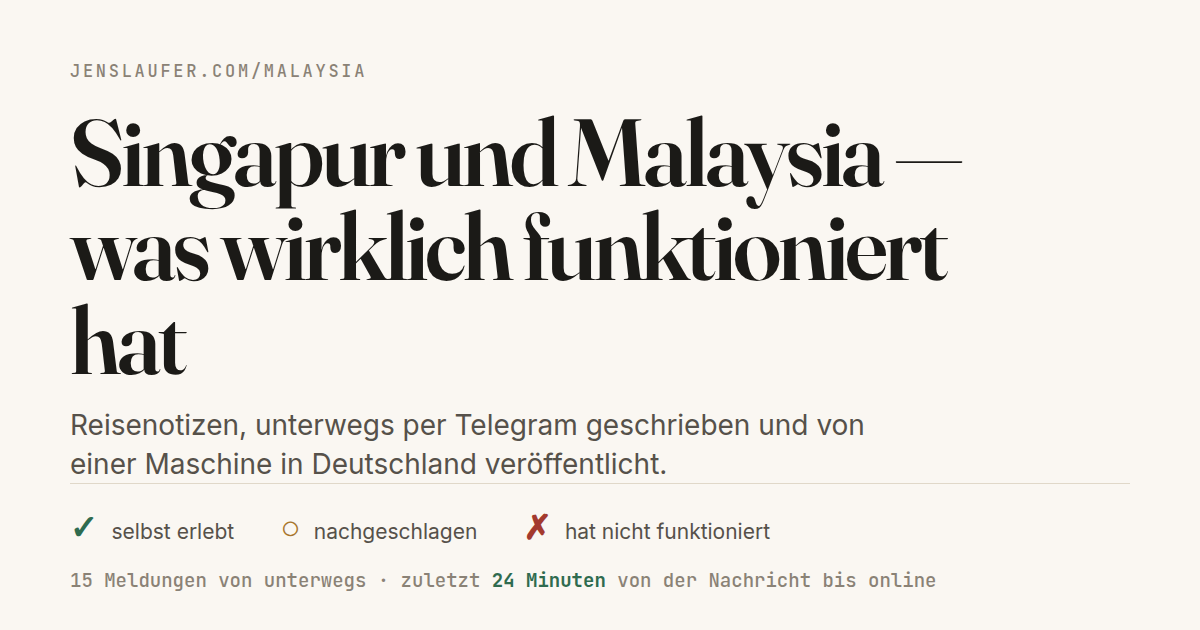
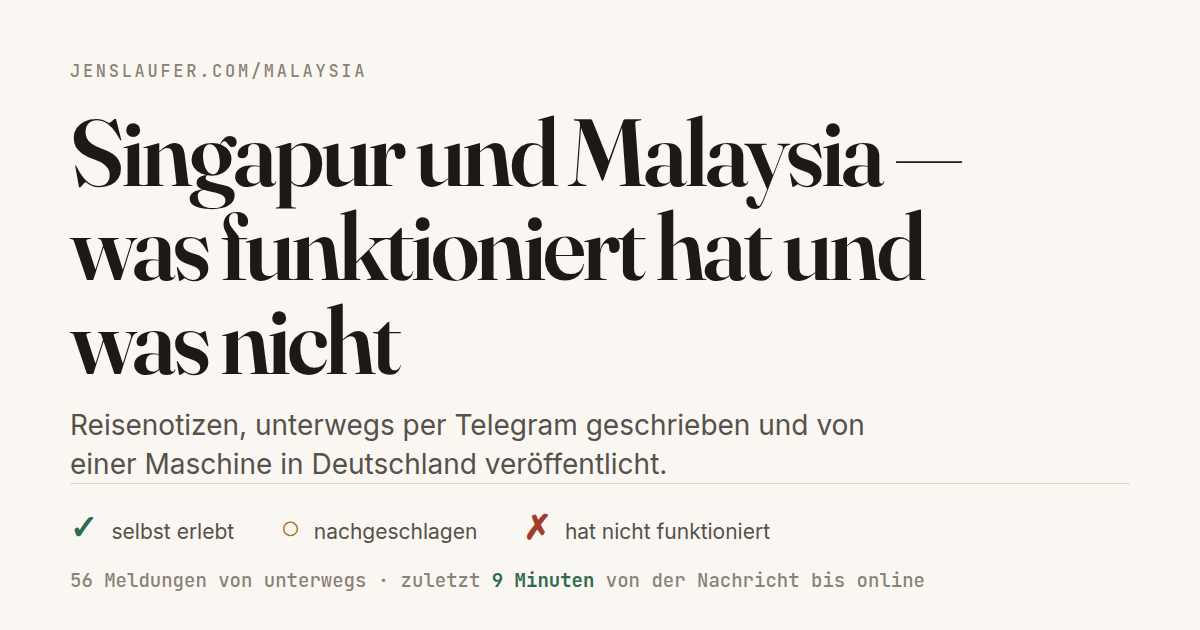
Titel: eine Quelle statt zehn Kopien, und die Ueberschrift nennt jetzt auch die Fehlschlaege
Jens 22.08. 12:42: 'Wir brauchen eine bessere Headline.'

Neu: 'Singapur und Malaysia — was funktioniert hat und was nicht'
(en: 'Singapore and Malaysia — what worked and what didn't').
Die alte Fassung versprach nur die Treffer, waehrend der Block
'Was nicht funktioniert hat' ungedeckelt oben auf der Seite steht.

Beim Aendern kam heraus, dass der Titel zehnmal im Repo stand: je
Sprache im Quelldokument, im <title>, im og:title, auf der
Vorschaukarte und im Feed. Neun Kopien, die niemand mitzieht.
seiten_titel() liest jetzt die erste Ueberschrift der Quelle, alle
Flaechen fuellen einen Platzhalter. 9 Tests, 8 davon vorher rot.

Nebenbefund: die Feed-Schleife hing in der Schleife ueber die
Rechtsseiten und lief viermal statt zweimal.

diff --git a/index.html b/index.html
@@ -3,13 +3,13 @@
 <head>
 <meta charset="utf-8">
 <meta name="viewport" content="width=device-width, initial-scale=1">
-<title>Singapur und Malaysia — was wirklich funktioniert hat</title>
+<title>Singapur und Malaysia — was funktioniert hat und was nicht</title>
 <meta name="description" content="Reisenotizen aus Singapur und Malaysia, August 2026. Jeder Punkt sagt dazu, ob wir es selbst erlebt oder nur nachgeschlagen haben.">
 <meta name="robots" content="index, follow">
 <meta property="og:type" content="article">
 <meta property="og:locale" content="de_DE">
 <meta property="og:locale:alternate" content="en_GB">
-<meta property="og:title" content="Singapur und Malaysia — was wirklich funktioniert hat">
+<meta property="og:title" content="Singapur und Malaysia — was funktioniert hat und was nicht">
 <meta property="og:description" content="Reisenotizen mit einem Zeichen an jedem Punkt: selbst erlebt, nachgeschlagen oder gescheitert. Unterwegs per Telegram geschrieben, von einer Maschine in Deutschland veröffentlicht.">
 <meta property="og:url" content="https://jenslaufer.com/malaysia/">
 <meta property="og:image" content="https://jenslaufer.com/malaysia/og.png">
@@ -780,7 +780,7 @@ a { color: var(--erlebt); }
 
 <header class="kopf">
   <p class="kicker">Reisenotizen · August und September 2026</p>
-  <h1>Singapur und Malaysia — was wirklich funktioniert hat</h1>
+  <h1>Singapur und Malaysia — was funktioniert hat und was nicht</h1>
 <p>Am Montag kurz nach zwölf standen wir zu viert auf der malaysischen Seite der Grenze,
 mit dem Gepäck für drei Wochen, und suchten den Weg zur Busstation Larkin. Fünf Kilometer,
 mit Koffern, in einem Land, dessen Bargeld wir uns erst dort besorgen wollten. Geraten wird

diff --git a/en/index.html b/en/index.html
@@ -3,13 +3,13 @@
 <head>
 <meta charset="utf-8">
 <meta name="viewport" content="width=device-width, initial-scale=1">
-<title>Singapore and Malaysia — what actually worked</title>
+<title>Singapore and Malaysia — what worked and what didn’t</title>
 <meta name="description" content="Travel notes from Singapore and Malaysia, August 2026. Every point says whether we lived through it ourselves or only looked it up.">
 <meta name="robots" content="index, follow">
 <meta property="og:type" content="article">
 <meta property="og:locale" content="en_GB">
 <meta property="og:locale:alternate" content="de_DE">
-<meta property="og:title" content="Singapore and Malaysia — what actually worked">
+<meta property="og:title" content="Singapore and Malaysia — what worked and what didn’t">
 <meta property="og:description" content="Travel notes with a mark on every point: lived through, looked up, or failed. Written on the road by Telegram, published by a machine in Germany.">
 <meta property="og:url" content="https://jenslaufer.com/malaysia/en/">
 <meta property="og:image" content="https://jenslaufer.com/malaysia/en/og.png">
@@ -779,7 +779,7 @@ a { color: var(--erlebt); }
 
 <header class="kopf">
   <p class="kicker">Travel notes · August and September 2026</p>
-  <h1>Singapore and Malaysia — what actually worked</h1>
+  <h1>Singapore and Malaysia — what worked and what didn’t</h1>
 <p>On Monday, just after noon, the four of us stood on the Malaysian side of the border with
 three weeks of luggage, looking for the way to Larkin bus station. Five kilometres, with
 suitcases, in a country whose cash we were planning to get once we were inside it. What

diff --git a/template/page.html b/template/page.html
@@ -3,13 +3,13 @@
 <head>
 <meta charset="utf-8">
 <meta name="viewport" content="width=device-width, initial-scale=1">
-<title>Singapur und Malaysia — was wirklich funktioniert hat</title>
+<title>{{SEITENTITEL}}</title>
 <meta name="description" content="Reisenotizen aus Singapur und Malaysia, August 2026. Jeder Punkt sagt dazu, ob wir es selbst erlebt oder nur nachgeschlagen haben.">
 <meta name="robots" content="index, follow">
 <meta property="og:type" content="article">
 <meta property="og:locale" content="de_DE">
 <meta property="og:locale:alternate" content="en_GB">
-<meta property="og:title" content="Singapur und Malaysia — was wirklich funktioniert hat">
+<meta property="og:title" content="{{SEITENTITEL}}">
 <meta property="og:description" content="Reisenotizen mit einem Zeichen an jedem Punkt: selbst erlebt, nachgeschlagen oder gescheitert. Unterwegs per Telegram geschrieben, von einer Maschine in Deutschland veröffentlicht.">
 <meta property="og:url" content="{{BASIS}}">
 <meta property="og:image" content="{{BASIS}}og.png">

diff --git a/template/page.en.html b/template/page.en.html
@@ -3,13 +3,13 @@
 <head>
 <meta charset="utf-8">
 <meta name="viewport" content="width=device-width, initial-scale=1">
-<title>Singapore and Malaysia — what actually worked</title>
+<title>{{SEITENTITEL}}</title>
 <meta name="description" content="Travel notes from Singapore and Malaysia, August 2026. Every point says whether we lived through it ourselves or only looked it up.">
 <meta name="robots" content="index, follow">
 <meta property="og:type" content="article">
 <meta property="og:locale" content="en_GB">
 <meta property="og:locale:alternate" content="de_DE">
-<meta property="og:title" content="Singapore and Malaysia — what actually worked">
+<meta property="og:title" content="{{SEITENTITEL}}">
 <meta property="og:description" content="Travel notes with a mark on every point: lived through, looked up, or failed. Written on the road by Telegram, published by a machine in Germany.">
 <meta property="og:url" content="{{BASIS}}en/">
 <meta property="og:image" content="{{BASIS}}en/og.png">

diff --git a/template/og.html b/template/og.html
@@ -44,7 +44,7 @@
 <body>
   <div>
     <p class="kicker">{{ADRESSE}}</p>
-    <h1>Singapur und Malaysia — was wirklich funktioniert hat</h1>
+    <h1>{{SEITENTITEL}}</h1>
     <p class="sub">{{UNTERZEILE}}</p>
   </div>
   <div>

diff --git a/build.py b/build.py
@@ -979,7 +979,7 @@ def _fehlschlaege(rumpf: str) -> str:
 def falte_recherche(rumpf: str, ab: int = 2) -> str:
     """Zusammenhaengende `○`-Eintraege in einen aufklappbaren Kasten.
 
-    Die Seite verspricht "was wirklich funktioniert hat" und bestand am
+    Die Seite verspricht "was funktioniert hat und was nicht" und bestand am
     18.08. aus 37 nachgeschlagenen gegen 28 erlebten Eintraegen — die
     Recherche trug die Seite, nicht das Erlebte. Eingeklappt kehrt sich das
     um, ohne dass ein Satz verschwindet: der Text steht im `<details>` und
@@ -1363,7 +1363,7 @@ def _autor_block() -> str:
 """
 
 
-def _og_karte(summe: dict) -> str:
+def _og_karte(summe: dict, titel: str = None) -> str:
     """Die Vorschaukarte als HTML. Ohne Messung ohne Zahl — nie mit einer Null."""
     karte = (WURZEL / "template" / "og.html").read_text(encoding="utf-8")
     if summe.get("gemessen") and summe.get("juengste_minuten") is not None:
@@ -1376,15 +1376,20 @@ def _og_karte(summe: dict) -> str:
     else:
         fuss = _t("Geschrieben unterwegs, gebaut in Deutschland",
                   "Written on the road, built in Germany")
+    # Der Titel kam hier bis zum 22.08. aus einer Suchen-und-Ersetzen-Zeile:
+    # die deutsche Vorlage trug ihn im Klartext, die englische Karte entstand
+    # daraus. Eine geaenderte Ueberschrift traf das Muster nicht mehr und die
+    # Karte blieb still auf dem alten Titel.
+    if titel is None:
+        titel = seiten_titel(KOPIEN[SPRACHE].read_text(encoding="utf-8"))
     if SPRACHE == "en":
-        karte = (karte.replace("Singapur und Malaysia", "Singapore and Malaysia")
-                      .replace("was wirklich funktioniert hat", "what actually worked")
-                      .replace('lang="de"', 'lang="en"'))
+        karte = karte.replace('lang="de"', 'lang="en"')
     # Die Adresse kommt aus BASIS, nicht aus der Vorlage. Sie stand dort als
     # malaysia.jenslaufer.com — eine Subdomain, die nie angelegt wurde. Im HTML
     # war ueberall die richtige Adresse, geteilt wird aber das Bild, und dort
     # findet sie kein grep. Wer sie abtippt, landet nirgends (17.08. gemessen).
     ersatz = {
+        "SEITENTITEL": _titel_fuer_html(titel),
         "ADRESSE": BASIS.split("://", 1)[1].rstrip("/"),
         "UNTERZEILE": _t(
             "Reisenotizen, unterwegs per Telegram geschrieben und von einer "
@@ -1401,7 +1406,7 @@ def _og_karte(summe: dict) -> str:
     return karte
 
 
-def baue_og_bild(summe: dict, ziel: Path = None) -> Path | None:
+def baue_og_bild(summe: dict, titel: str = None, ziel: Path = None) -> Path | None:
     """Rendert die Vorschaukarte (1200x630) mit Chromium.
 
     Ohne Bild ist der geteilte Link in Telegram, WhatsApp und LinkedIn eine graue
@@ -1409,7 +1414,7 @@ def baue_og_bild(summe: dict, ziel: Path = None) -> Path | None:
     """
     ziel = ziel or (WURZEL / ("og.png" if SPRACHE == "de" else "en/og.png"))
     ziel.parent.mkdir(parents=True, exist_ok=True)
-    karte = _og_karte(summe)
+    karte = _og_karte(summe, titel)
     pruefe_privat(karte)
 
     # Snap-Chromium darf weder nach /tmp noch in versteckte Ordner schreiben.
@@ -1451,6 +1456,38 @@ def _inhaltsverzeichnis(rumpf: str) -> str:
     return f'<nav class="toc" aria-label="{_t("Abschnitte", "Sections")}">{links}</nav>'
 
 
+H1 = re.compile(r"^#[ \t]+(.+?)[ \t]*$", flags=re.M)
+
+
+def _titel_fuer_html(titel: str) -> str:
+    """Sicher als Textknoten UND in einem Attribut mit doppelten Anfuehrungszeichen.
+
+    `html.escape(quote=True)` waere zu scharf: es macht aus dem Apostroph in
+    „what didn't" ein `&#x27;`, das im Browser-Reiter und in der WhatsApp-
+    Vorschau als solches dasteht. Gefaehrlich sind hier `&<>` und das doppelte
+    Anfuehrungszeichen, nicht der Apostroph.
+    """
+    return html.escape(titel, quote=False).replace('"', "&quot;")
+
+
+def seiten_titel(md: str) -> str:
+    """Der Seitentitel ist die erste Ueberschrift des Quelldokuments — nur die.
+
+    Bis zum 22.08. stand er zusaetzlich im `<title>`, im `og:title`, auf der
+    Vorschaukarte und im Feed, je Sprache: zehn Stellen fuer zwei Titel, neun
+    davon Kopien. Wer die Ueberschrift aendert, aendert dann die Seite und
+    laesst Browser-Reiter, WhatsApp-Vorschau und Feed auf dem alten Stand
+    stehen — sichtbar genau beim Weitergeben, dem einzigen Zweck der Seite.
+
+    Kein Ersatztitel bei fehlender Ueberschrift: eine Seite, die still
+    „Titel" heisst, faellt erst auf, wenn jemand den Link teilt.
+    """
+    treffer = H1.search(md)
+    if not treffer:
+        raise ValueError("Quelldokument ohne Ueberschrift erster Ordnung")
+    return treffer.group(1).strip()
+
+
 def baue_seite(md: str) -> str:
     pruefe_privat(strip_kommentare(md))
     rumpf = render_markdown(md)
@@ -1472,6 +1509,7 @@ def baue_seite(md: str) -> str:
         .replace("{{TOC}}", _inhaltsverzeichnis(rumpf))
         .replace("{{STAND}}", stand)
         .replace("{{BASIS}}", BASIS)
+        .replace("{{SEITENTITEL}}", _titel_fuer_html(seiten_titel(md)))
     )
     pruefe_privat(seite)
     pruefe_extern(seite)
@@ -1666,10 +1704,7 @@ def baue_feed(md: str) -> str | None:
     ET.register_namespace("", ATOM)
     feed = ET.Element(f"{{{ATOM}}}feed")
     feed.set("{http://www.w3.org/XML/1998/namespace}lang", SPRACHE)
-    ET.SubElement(feed, f"{{{ATOM}}}title").text = _t(
-        "Singapur und Malaysia — was wirklich funktioniert hat",
-        "Singapore and Malaysia — what actually worked",
-    )
+    ET.SubElement(feed, f"{{{ATOM}}}title").text = seiten_titel(md)
     ET.SubElement(feed, f"{{{ATOM}}}subtitle").text = _t(
         # Echte Umlaute: dieser Satz steht in jedem Leseprogramm sichtbar da.
         # Die ASCII-Schreibweise ist ein Reflex aus dem Quelltext und war am
@@ -1843,9 +1878,18 @@ def main() -> int:
         pfad.write_text(html, encoding="utf-8")
         print(f"gebaut: {pfad} ({pfad.stat().st_size:,} Bytes)")
 
-        # Der Feed wird NACH der Seite geschrieben und nur, wenn es etwas zu
-        # melden gibt. Ohne Messung bleibt die alte Datei stehen: ein leerer
-        # Feed sieht bei jedem Leser aus wie eine ruhige Woche.
+    # Der Feed wird NACH der Seite geschrieben und nur, wenn es etwas zu
+    # melden gibt. Ohne Messung bleibt die alte Datei stehen: ein leerer
+    # Feed sieht bei jedem Leser aus wie eine ruhige Woche.
+    #
+    # Eigene Schleife, seit dem 22.08.: der Block hing eine Ebene tiefer in
+    # der Schleife ueber die Rechtsseiten und lief deshalb viermal statt
+    # zweimal — sichtbar nur als doppelte Zeile in der Bauausgabe, weil
+    # zweimal dieselben Bytes geschrieben wurden. Der Preis waere erst beim
+    # naechsten Umbau faellig geworden: haengt der Feed an RECHTSARTEN, wird
+    # er gar nicht mehr geschrieben, sobald dort etwas anderes steht — und
+    # eine nicht geschriebene Datei bleibt als alte Datei erreichbar.
+    for sprache in SPRACHEN:
         SPRACHE = sprache
         xml = baue_feed(quellen[sprache])
         feed_datei = FEED_DATEIEN[sprache]

diff --git a/tests/test_build.py b/tests/test_build.py
@@ -1631,7 +1631,7 @@ class TestZuletzt(unittest.TestCase):
 class TestRechercheFaltung(unittest.TestCase):
     """Umbau 3 (Jens 2026-08-18 09:44).
 
-    37 ○ gegen 28 ✓: die Seite verspricht „was wirklich funktioniert hat" und
+    37 ○ gegen 28 ✓: die Seite verspricht „was funktioniert hat und was nicht" und
     besteht mehrheitlich aus Vorher-Gelesenem. Eingeklappt traegt das Erlebte
     die Seite — der Text bleibt, er ist einen Klick entfernt.
     """
@@ -1713,7 +1713,7 @@ class TestRechercheFaltung(unittest.TestCase):
 class TestFehlschlaege(unittest.TestCase):
     """Umbau 2 (Jens 2026-08-18 09:44): „Sollten wir den Reiseblog nicht spannender gestalten?"
 
-    Die Seite verspricht „was wirklich funktioniert hat" und traegt am 18.08.
+    Die Seite verspricht „was funktioniert hat und was nicht" und traegt am 18.08.
     genau **2 ✗** gegen 29 ✓ und 40 ○ — beide in ihrem Themenabschnitt vergraben.
     Das ist der Teil, den kein Reisefuehrer schreibt, und der einzige, der die
     anderen Haken glaubwuerdig macht. Deshalb steht er oben, nicht weil er
@@ -1980,6 +1980,108 @@ class TestKeinFlugAufDieInsel(unittest.TestCase):
                 self.assertIn("992", seite)
                 self.assertIn("2025", seite)
                 self.assertIn("SKS Airways", seite)
+
+
+class TestEinTitelFuerAlleFlaechen(unittest.TestCase):
+    """Der Titel stand sechsmal im Repo — geaendert wird er an einer Stelle.
+
+    Gefunden am 22.08., als Jens „Wir brauchen eine bessere Headline" schrieb.
+    Die Ueberschrift lebte im Quelldokument, im `<title>`, im `og:title`, auf
+    der Vorschaukarte und im Feed — je Sprache, also zehn Stellen fuer zwei
+    Titel. Neun davon sind Kopien, die niemand mitzieht: wer die Ueberschrift
+    im Quelldokument aendert, bekommt eine Seite mit dem neuen Titel, einen
+    Browser-Reiter mit dem alten, eine WhatsApp-Vorschau mit dem alten und
+    einen Feed mit dem alten.
+
+    Sichtbar wird das genau beim Weitergeben, und das ist der einzige Zweck
+    der Seite. Dieselbe Bauform hat die Adresse auf der Vorschaukarte schon
+    einmal erwischt (17.08.): jede Pruefung ueber HTML war gruen, geteilt wird
+    aber das Bild.
+    """
+
+    MD = "# Testtitel Alpha\n\nVorspann.\n\n## Erstes\n\n**✓ Etwas (17.08.).** Text.\n"
+
+    def test_seitentitel_kommt_aus_der_ueberschrift(self):
+        self.assertEqual("Testtitel Alpha", build.seiten_titel(self.MD))
+
+    def test_quelle_ohne_ueberschrift_bricht_ab(self):
+        # Kein stiller Ersatztitel: eine Seite, die „Titel" heisst, faellt
+        # niemandem auf, bis sie geteilt wird.
+        with self.assertRaises(ValueError):
+            build.seiten_titel("Nur Text, keine Ueberschrift.\n")
+
+    def test_browserreiter_folgt_der_quelle(self):
+        self.assertIn("<title>Testtitel Alpha</title>", build.baue_seite(self.MD))
+
+    def test_vorschau_folgt_der_quelle(self):
+        self.assertIn('property="og:title" content="Testtitel Alpha"',
+                      build.baue_seite(self.MD))
+
+    def test_ueberschrift_im_text_folgt_der_quelle(self):
+        self.assertIn("<h1>Testtitel Alpha</h1>", build.baue_seite(self.MD))
+
+    def test_vorschaukarte_folgt_der_quelle(self):
+        self.assertIn("Testtitel Alpha", build._og_karte({}, "Testtitel Alpha"))
+
+    def test_feed_folgt_der_quelle(self):
+        md = ("# Testtitel Alpha\n\n## Bezahlen\n\n"
+              "**✓ Im Bus geht kontaktlos.** Ohne Vorbereitung.\n"
+              "<!-- werkstatt: telegram=2026-08-17T04:41 -->\n")
+        alt_w, build.WERKSTATT = build.WERKSTATT, {
+            "2026-08-17T04:41:00+00:00": {
+                "telegram": "2026-08-17T04:41:00+00:00",
+                "veroeffentlicht": "2026-08-17T05:46:51+00:00",
+                "minuten": 66,
+            }
+        }
+        try:
+            xml = build.baue_feed(md)
+        finally:
+            build.WERKSTATT = alt_w
+        wurzel = ET.fromstring(xml)
+        self.assertEqual("Testtitel Alpha",
+                         wurzel.find("{http://www.w3.org/2005/Atom}title").text)
+
+    def test_kein_titel_liegt_hartkodiert_neben_der_quelle(self):
+        """Die eigentliche Sperre — sonst wandert der naechste Titel zurueck.
+
+        Die Tests darueber pruefen, dass die Kopien der Quelle folgen. Sie
+        bleiben aber gruen, wenn jemand den echten Titel zusaetzlich in eine
+        Vorlage schreibt: solange beide gleich lauten, faellt nichts auf. Also
+        wird hier gezaehlt, wo der ausgelieferte Titel ueberhaupt stehen darf.
+        """
+        titel = {s: build.seiten_titel(build.KOPIEN[s].read_text(encoding="utf-8"))
+                 for s in build.SPRACHEN}
+        dateien = [build.WURZEL / "build.py"]
+        dateien += sorted((build.WURZEL / "template").glob("*.html"))
+        for datei in dateien:
+            inhalt = datei.read_text(encoding="utf-8")
+            for sprache, wert in titel.items():
+                with self.subTest(datei=datei.name, sprache=sprache):
+                    self.assertNotIn(
+                        wert, inhalt,
+                        f"{datei.name} traegt den Titel ({sprache}) als Kopie. "
+                        f"Er gehoert nur in {build.QUELLEN[sprache].name}.")
+
+    def test_ausgelieferte_flaechen_tragen_denselben_titel(self):
+        """Gegen die Dateien, die wirklich im Netz stehen, nicht gegen den Renderer.
+
+        Ein Build, der die Seite neu schreibt und den Feed auslaesst, faellt
+        sonst durch jede Pruefung: beide Wege sind fuer sich gruen.
+        """
+        for sprache in build.SPRACHEN:
+            titel = build.seiten_titel(build.KOPIEN[sprache].read_text(encoding="utf-8"))
+            seite = build.ZIELE[sprache].read_text(encoding="utf-8")
+            with self.subTest(sprache=sprache):
+                self.assertIn(f"<title>{titel}</title>", seite)
+                self.assertIn(f'property="og:title" content="{titel}"', seite)
+                self.assertIn(f"<h1>{titel}</h1>", seite)
+                feed = build.FEED_DATEIEN[sprache]
+                if feed.exists():
+                    wurzel = ET.fromstring(feed.read_text(encoding="utf-8"))
+                    self.assertEqual(
+                        titel,
+                        wurzel.find("{http://www.w3.org/2005/Atom}title").text)
 
 
 if __name__ == "__main__":

diff --git a/README.md b/README.md
@@ -32,7 +32,7 @@ oder gelöscht** — es wurde nur sortiert, und das an drei Stellen:
 |---|---|---|
 | `#zuletzt` (`_zuletzt`) | die 5 jüngsten **✓** mit Bild, Datum, Sprungmarke | die frischen Einträge liegen in ihrem Themenabschnitt; wer nach zwei Tagen wiederkommt, findet nicht, was neu ist |
 | `#fehlschlaege` (`_fehlschlaege`) | **alle ✗**, ungedeckelt | 2 gegen 69: wer überfliegt, sieht lauter Haken und keinen Reinfall — das liest sich glatter, als es war |
-| `<details>` (`falte_recherche`) | ≥2 aufeinanderfolgende **○** in einem Kasten | die Seite verspricht „was wirklich funktioniert hat" und bestand mehrheitlich aus Vorher-Gelesenem |
+| `<details>` (`falte_recherche`) | ≥2 aufeinanderfolgende **○** in einem Kasten | die Seite verspricht „was funktioniert hat und was nicht" und bestand mehrheitlich aus Vorher-Gelesenem |
 | `.stationen` (`_karte`) | je Station die **✓**, die dort passiert sind | die Karte zeichnete nur die Route; über den Ort führte kein Weg in den Text |
 
 Sprungmarken: **✓** hängt am Telegram-Zeitstempel (siehe unten), **✗** am

diff --git a/content/erfahrungen.md b/content/erfahrungen.md
@@ -1,4 +1,4 @@
-# Singapur und Malaysia — was wirklich funktioniert hat
+# Singapur und Malaysia — was funktioniert hat und was nicht
 
 Am Montag kurz nach zwölf standen wir zu viert auf der malaysischen Seite der Grenze,
 mit dem Gepäck für drei Wochen, und suchten den Weg zur Busstation Larkin. Fünf Kilometer,

diff --git a/content/erfahrungen.en.md b/content/erfahrungen.en.md
@@ -1,4 +1,4 @@
-# Singapore and Malaysia — what actually worked
+# Singapore and Malaysia — what worked and what didn’t
 
 On Monday, just after noon, the four of us stood on the Malaysian side of the border with
 three weeks of luggage, looking for the way to Larkin bus station. Five kilometres, with
